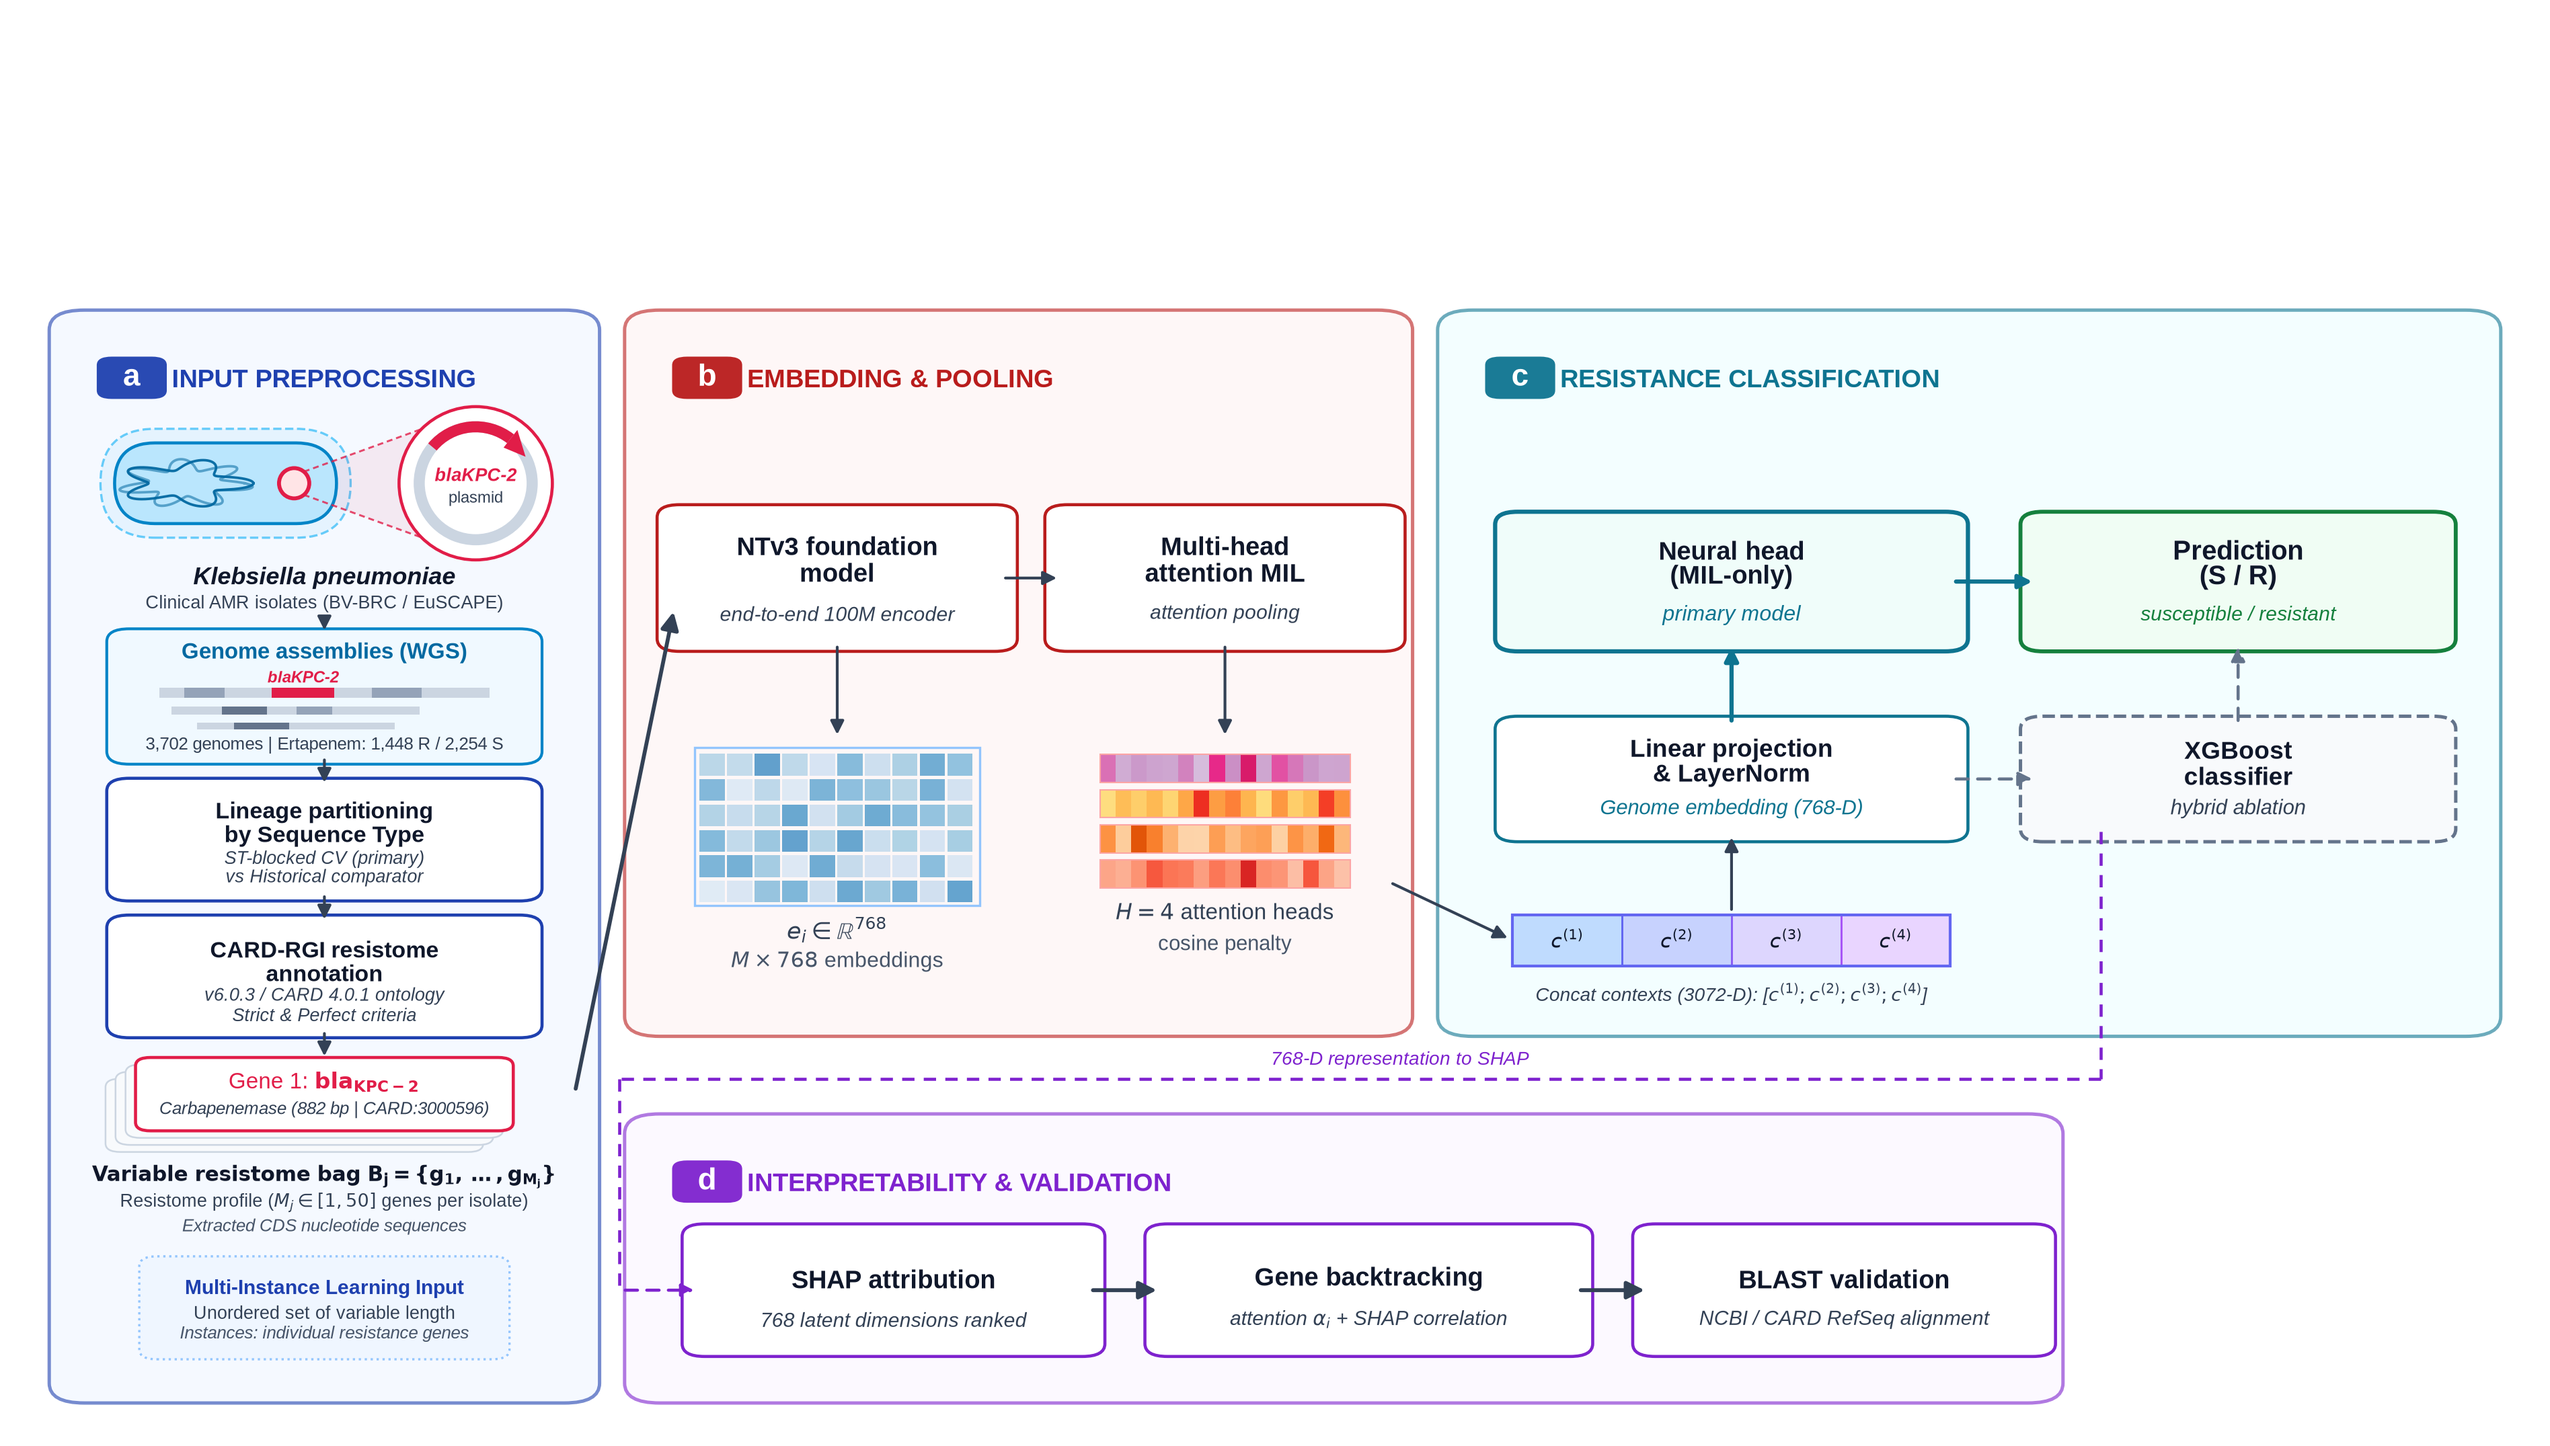
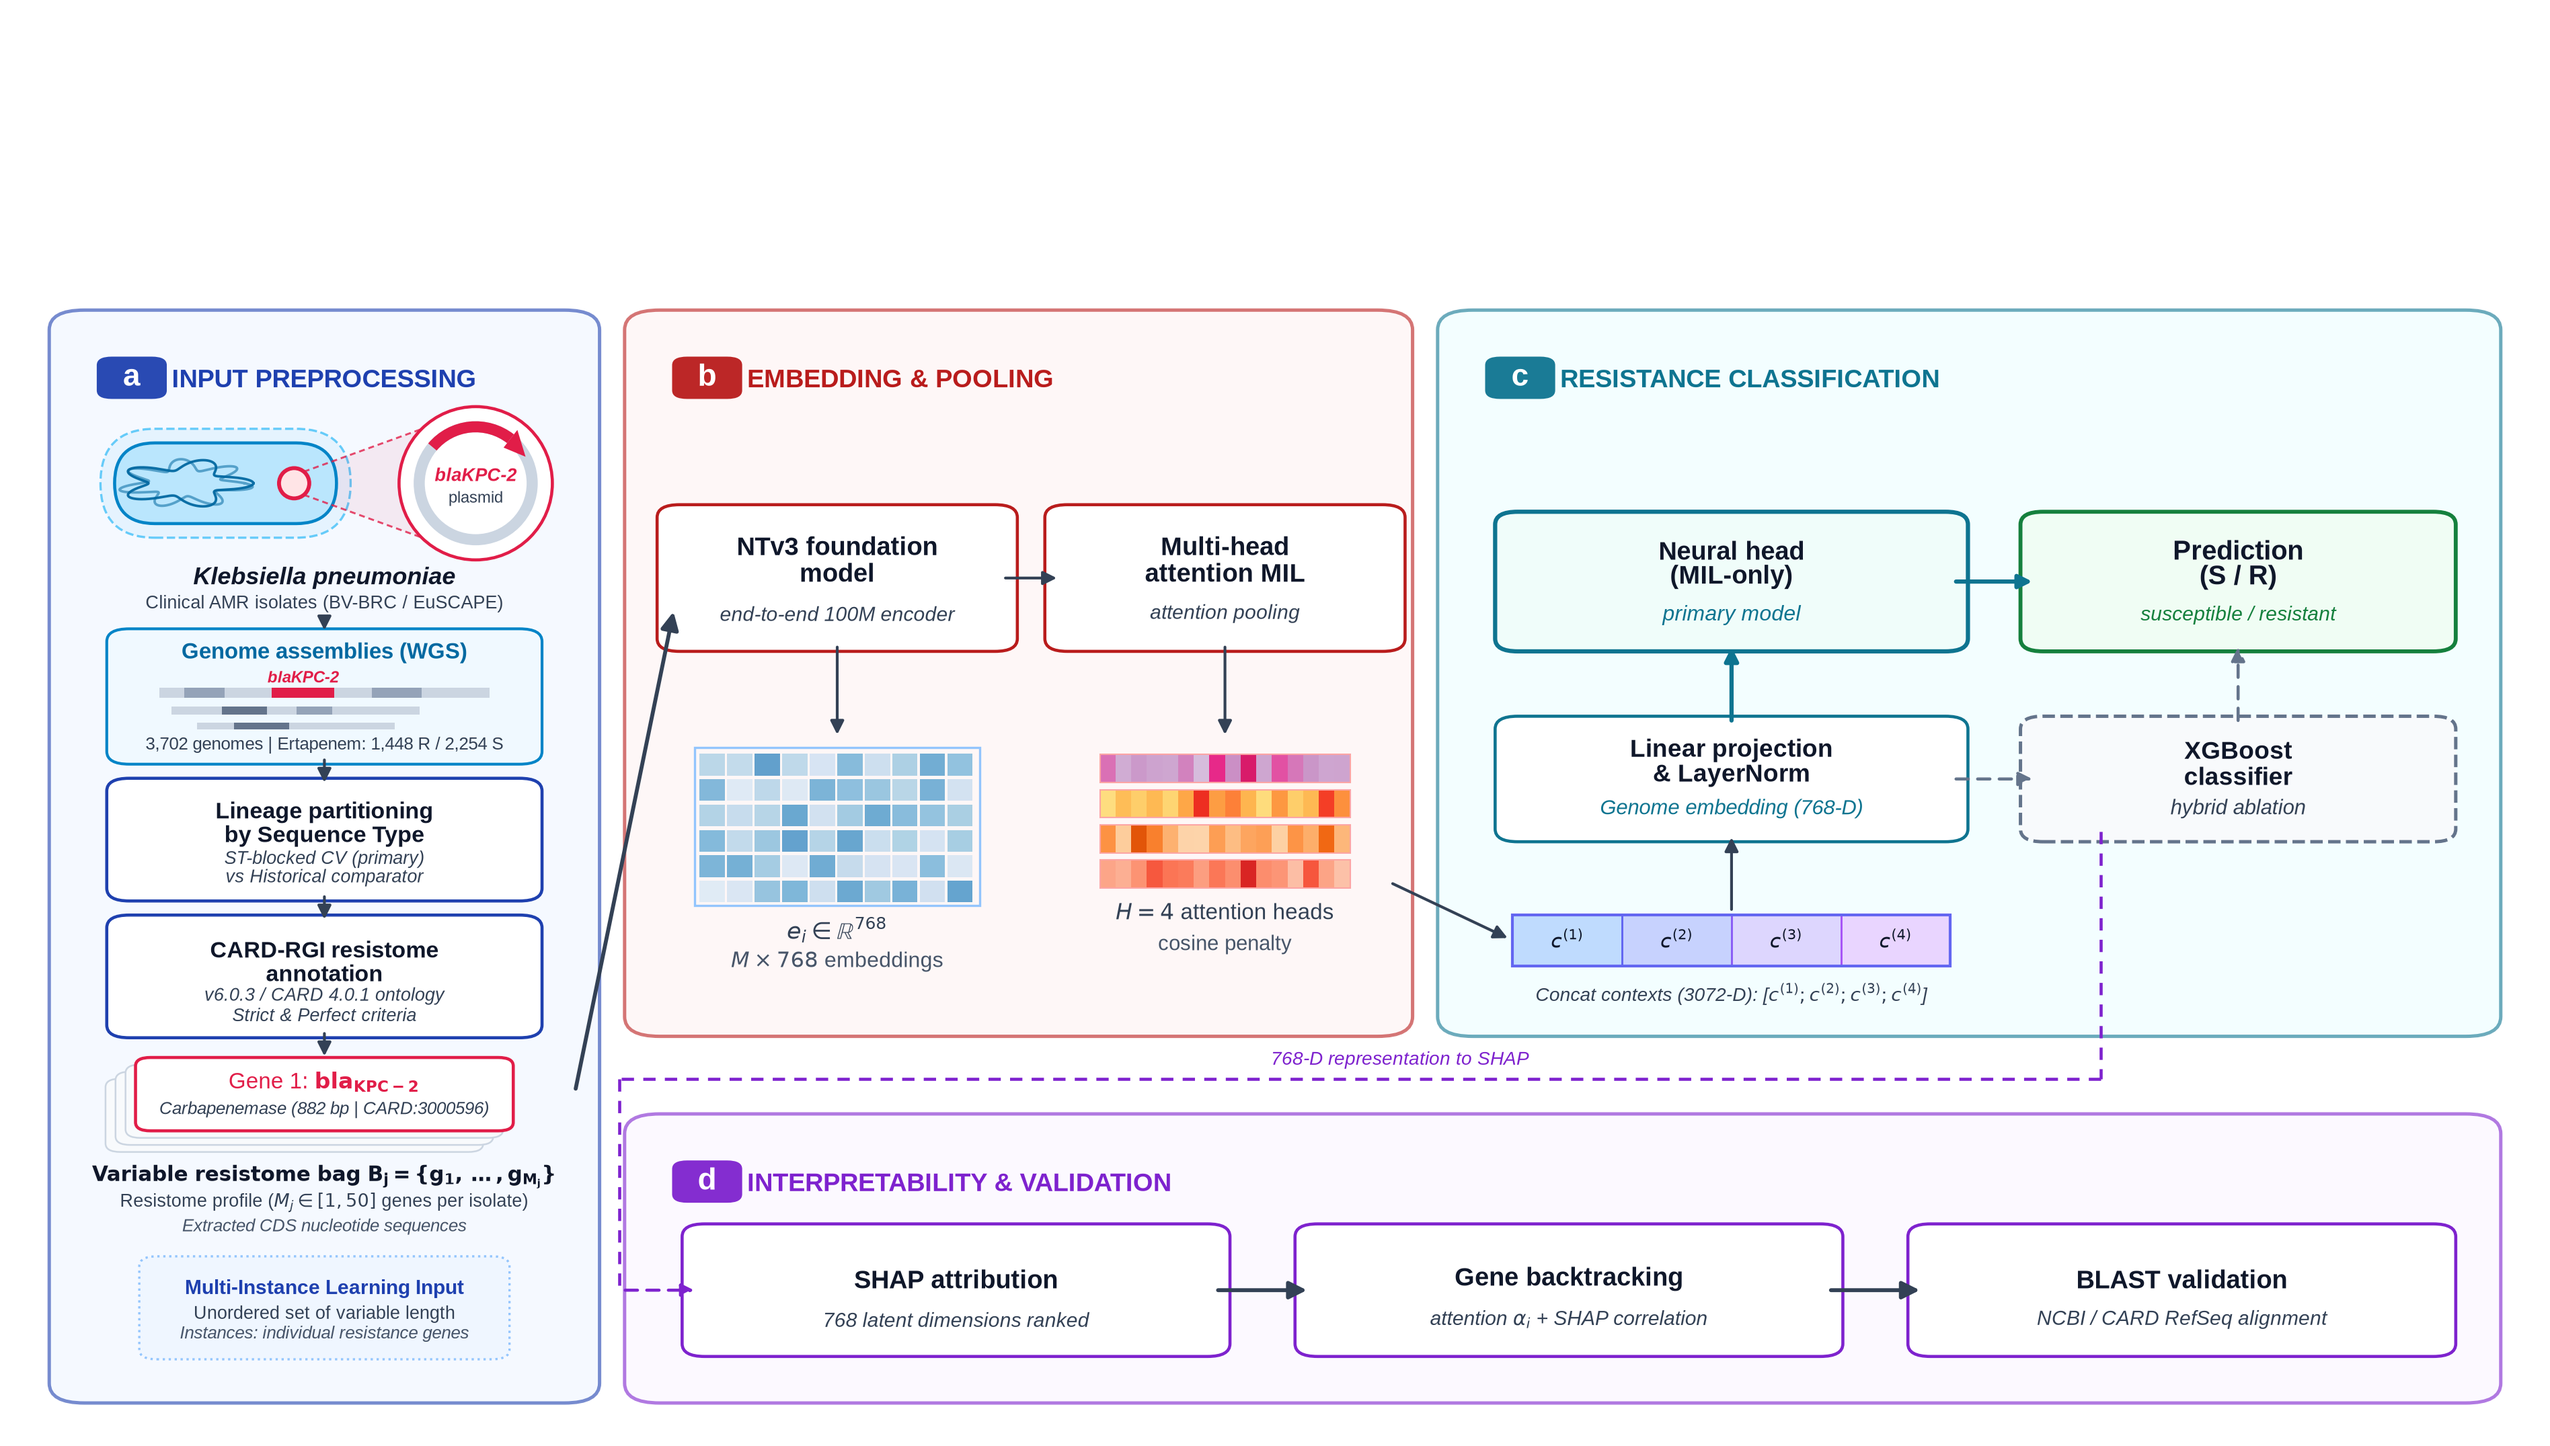
fix(fig1): widen panel d container and blocks to align with panel c

Changed region(s): [[0.3112, 0.841, 0.9024, 0.9656], [0.9335, 0.841, 0.9647, 0.8722]]

diff --git a/scripts/new/refine_figure1.py b/scripts/new/refine_figure1.py
@@ -163,7 +163,7 @@ def make_figure():
     stage_bg(0.575, 0.280, 0.405, 0.495,
              "c", "RESISTANCE CLASSIFICATION", S3, S3_BG)
 
-    stage_bg(0.250, 0.020, 0.555, 0.185,
+    stage_bg(0.250, 0.020, 0.730, 0.185,
              "d", "INTERPRETABILITY & VALIDATION", S4, S4_BG)
 
     # ═══════════════════════════════════════════════════════════════
@@ -525,25 +525,31 @@ def make_figure():
     # 4. INTERPRETABILITY & VALIDATION (Clean Stepped Routing)
     # ═══════════════════════════════════════════════════════════════
 
-    # Three blocks across the bottom row
+    # Three blocks across the bottom row (widened to align with Panel c at x = 0.965 / 0.980)
     ib_y = 0.050
     ib_h = 0.080
+    b_w = 0.205
+    b_gap = 0.040
 
-    box(0.270, ib_y, 0.155, ib_h,
+    b1_x = 0.270
+    b2_x = b1_x + b_w + b_gap  # 0.515
+    b3_x = b2_x + b_w + b_gap  # 0.760 (ends at 0.965, matching Prediction block above)
+
+    box(b1_x, ib_y, b_w, ib_h,
         "SHAP attribution", edge=S4, fs=9.2,
         subtitle="768 latent dimensions ranked")
 
-    box(0.455, ib_y, 0.165, ib_h,
+    box(b2_x, ib_y, b_w, ib_h,
         "Gene backtracking", edge=S4, fs=9.2,
         subtitle=r"attention $\alpha_i$ + SHAP correlation")
 
-    box(0.650, ib_y, 0.155, ib_h,
+    box(b3_x, ib_y, b_w, ib_h,
         "BLAST validation", edge=S4, fs=9.2,
         subtitle="NCBI / CARD RefSeq alignment")
 
     # Flow arrows between interpretability blocks
-    heavy_arrow((0.425, ib_y + ib_h/2), (0.455, ib_y + ib_h/2))
-    heavy_arrow((0.620, ib_y + ib_h/2), (0.650, ib_y + ib_h/2))
+    heavy_arrow((b1_x + b_w, ib_y + ib_h / 2), (b2_x, ib_y + ib_h / 2))
+    heavy_arrow((b2_x + b_w, ib_y + ib_h / 2), (b3_x, ib_y + ib_h / 2))
 
     # Clean Stepped Connector from XGBoost to SHAP:
     # 1. Drops from bottom of XGBoost into the clear corridor (y = 0.240)
